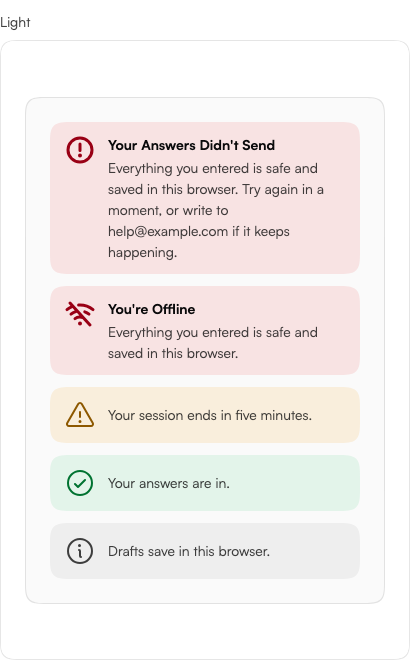
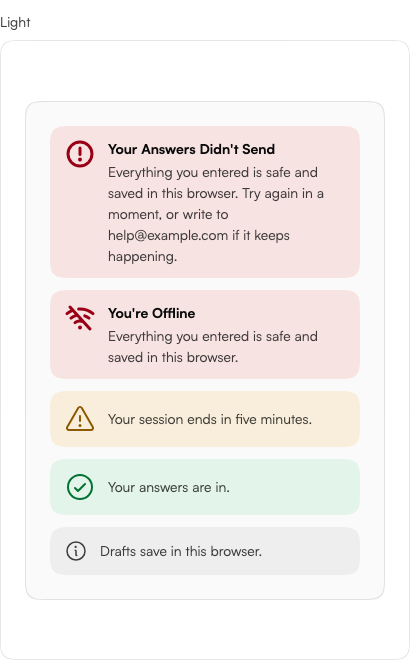
VI-799 fix: keep the plain note at 24px; align the info alert only over a photo
Round 2 sized the neutral note's icon at 32px everywhere, which moved the
plain soft alert for every consumer (parity D4a: note 24px to 32px). The
unbound note is back at --alert-icon-size-note (1.5rem). Inside the glass
switch the note now draws at --alert-icon-size, so over a photo every
tone's text still starts in one column, as the operator approved in v7.
The parity report is regenerated gated (D4a clean in light and dark), the
plain looks are re-shot, and Dark + Photo is re-shot on the night photo.

diff --git a/components/ui/alert/__tests__/alert-soft.test.tsx b/components/ui/alert/__tests__/alert-soft.test.tsx
@@ -39,9 +39,9 @@ const SOFT: Record<
   destructive: { fill: styles.softDestructive, Icon: WarningOctagon, size: 32, role: "alert" },
   warning: { fill: styles.softWarning, Icon: Warning, size: 32, role: "status" },
   success: { fill: styles.softSuccess, Icon: CheckCircle, size: 32, role: "status" },
-  default: { fill: styles.softNote, Icon: Info, size: 32, role: "status" },
+  default: { fill: styles.softNote, Icon: Info, size: 24, role: "status" },
   // `info` has no soft surface yet, so it falls back to the neutral note.
-  info: { fill: styles.softNote, Icon: Info, size: 32, role: "status" },
+  info: { fill: styles.softNote, Icon: Info, size: 24, role: "status" },
 }
 
 const VARIANTS = Object.keys(SOFT) as Variant[]
@@ -129,7 +129,7 @@ describe("Alert appearance=\"soft\" (VI-698)", () => {
 
     it("sizes a custom note icon at the note size", () => {
       softAlert("default", { icon: <Lightning /> })
-      expect(iconOf(screen.getByTestId("alert"))).toHaveAttribute("width", "32")
+      expect(iconOf(screen.getByTestId("alert"))).toHaveAttribute("width", "24")
     })
   })
 
@@ -217,7 +217,15 @@ describe("Alert appearance=\"soft\" (VI-698)", () => {
 
     it("sizes the icon from the component tokens", () => {
       expect(rule(".icon > svg")).toContain("width: var(--alert-icon-size, 2rem)")
-      expect(rule(".softNote .icon > svg")).toContain("width: var(--alert-icon-size-note, var(--alert-icon-size, 2rem))")
+      expect(rule(".softNote .icon > svg")).toContain("width: var(--alert-icon-size-note, 1.5rem)")
+    })
+
+    // VI-799: only over a photo does the note take the other tones' size, so the text columns line up.
+    it("sizes the note like every other tone inside the glass switch, and only there", () => {
+      expect(rule(':global([data-glass="on"]) .softNote .icon > svg')).toContain("width: var(--alert-icon-size, 2rem)")
+      expect(rule(':global([data-glass="on"]) .softNote .content')).toContain("min-height: var(--alert-icon-size, 2rem)")
+      expect(rule(':global([data-glass="off"]) .softNote .icon > svg')).toContain("width: var(--alert-icon-size-note, 1.5rem)")
+      expect(rule(':global([data-glass="off"]) .softNote .content')).toContain("min-height: var(--alert-icon-size-note, 1.5rem)")
     })
 
     it("keeps the body in secondary ink, not the tone's colour", () => {

diff --git a/packages/docs/e2e/alert-soft-glass.spec.ts b/packages/docs/e2e/alert-soft-glass.spec.ts
@@ -3,8 +3,8 @@ import { test, expect, type Frame, type Page } from "@playwright/test";
 // VI-799: the soft Alert replaces the kit's Notice. In the plain looks it keeps
 // its danger tone and no glass; over a photo every tone draws in the glass ink,
 // on the glass fill and blur, with a full hairline outline and never a stripe.
-// The alerts sit on a form panel built from the glass recipe, and every tone's
-// text starts in the same column (the info note included).
+// The alerts sit on a form panel built from the glass recipe, and over a photo
+// every tone's text starts in the same column (the info note included).
 // The stock theme CI has; LOOKS_THEME=honcho-backstage and LOOKS_PHOTO=/a-real-photo.webp
 // draw the kit's looks over a real photo locally.
 const THEME = process.env.LOOKS_THEME ?? "neutral";
@@ -82,9 +82,14 @@ for (const width of [1440, 390]) {
           await expect(frame.locator('[data-slot="look-panel"]')).toHaveAttribute("data-mode", look.mode ?? docsMode);
           const alerts = await probe(frame);
           expect(alerts).toHaveLength(5);
-          // Every tone, the info note included, draws one icon size and starts its text in one column.
-          expect(new Set(alerts.map((a) => a.iconWidth)).size).toBe(1);
-          expect(new Set(alerts.map((a) => a.textLeft)).size).toBe(1);
+          // Over a photo every tone, the info note included, draws one icon size and starts its
+          // text in one column. The plain looks keep the note's smaller 24px icon.
+          if (look.photo) {
+            expect(new Set(alerts.map((a) => a.iconWidth)).size).toBe(1);
+            expect(new Set(alerts.map((a) => a.textLeft)).size).toBe(1);
+          } else {
+            expect(alerts.at(-1)!.iconWidth).toBe(24);
+          }
           // The alerts sit on the glass recipe's form panel: glass over a photo, a solid card elsewhere.
           const panelGlass = await frame
             .locator('[data-slot="alert-form-panel"] > span[aria-hidden]')

diff --git a/components/ui/alert/alert.module.css b/components/ui/alert/alert.module.css
@@ -143,9 +143,7 @@
 }
 
 /* The icon: outline, unchipped, in the tone's colour. The SVG's own width is
-   the token's fallback; this governs the rendered size so a theme can bind it.
-   The neutral note takes the same size by default (VI-799), so its text column
-   lines up with every other tone's; a theme can still bind a smaller note. */
+   the token's fallback; this governs the rendered size so a theme can bind it. */
 .icon {
   flex: none;
   display: inline-flex;
@@ -157,8 +155,8 @@
 }
 
 .softNote .icon > svg {
-  width: var(--alert-icon-size-note, var(--alert-icon-size, 2rem));
-  height: var(--alert-icon-size-note, var(--alert-icon-size, 2rem));
+  width: var(--alert-icon-size-note, 1.5rem);
+  height: var(--alert-icon-size-note, 1.5rem);
 }
 
 .softDestructive .icon {
@@ -190,7 +188,29 @@
 }
 
 .softNote .content {
-  min-height: var(--alert-icon-size-note, var(--alert-icon-size, 2rem));
+  min-height: var(--alert-icon-size-note, 1.5rem);
+}
+
+/* Over a photo (VI-799) the note draws its icon at the other tones' size, so
+   every tone's text starts in one column on the glass. A size can't ride a
+   --glass-on-* fallback, so this keys off the switch itself; the off rule
+   after it restores the note for a data-glass="off" subtree inside it. */
+:global([data-glass="on"]) .softNote .icon > svg {
+  width: var(--alert-icon-size, 2rem);
+  height: var(--alert-icon-size, 2rem);
+}
+
+:global([data-glass="on"]) .softNote .content {
+  min-height: var(--alert-icon-size, 2rem);
+}
+
+:global([data-glass="off"]) .softNote .icon > svg {
+  width: var(--alert-icon-size-note, 1.5rem);
+  height: var(--alert-icon-size-note, 1.5rem);
+}
+
+:global([data-glass="off"]) .softNote .content {
+  min-height: var(--alert-icon-size-note, 1.5rem);
 }
 
 /* Trim the outer margins of whatever sits at the content's edges. MDX wraps

diff --git a/packages/theme-engine/src/component-tokens.ts b/packages/theme-engine/src/component-tokens.ts
@@ -1343,7 +1343,7 @@ const alertFamily: ComponentTokenFamily = {
     "Alert's soft appearance: the inline alert under a control or in a dialog — icon size, inset, gap, rounding and type.",
   tokens: [
     { key: "icon-size", property: "width / height / min-height", description: "Soft icon size for the destructive, warning and success tones; the content is at least this tall.", consumers: at(ALERT, "2rem") },
-    { key: "icon-size-note", property: "width / height / min-height", description: "Soft icon size for the neutral note (`default` and `info`). Unbound, it matches `icon-size`, so every tone's text lines up.", consumers: at(ALERT, "var(--alert-icon-size, 2rem)") },
+    { key: "icon-size-note", property: "width / height / min-height", description: "Soft icon size for the neutral note (`default` and `info`).", consumers: at(ALERT, "1.5rem") },
     { key: "soft-padding", property: "padding", description: "Soft alert inset.", consumers: at(ALERT, "var(--spacing-3, 0.75rem) calc(var(--spacing-3, 0.75rem) + var(--spacing-1, 0.25rem) / 2)") },
     { key: "gap", property: "gap", description: "Gap between the soft icon and its text.", consumers: at(ALERT, "var(--spacing-3, 0.75rem)") },
     { key: "radius", property: "border-radius", description: "Soft alert corner rounding.", consumers: at(ALERT, "var(--radius-lg, 0.5rem)") },

diff --git a/components/ui/alert/alert.tsx b/components/ui/alert/alert.tsx
@@ -64,10 +64,9 @@ const SOFT_ICON: Record<AlertVariant, React.ElementType<IconProps>> = {
 /** The soft icon size for every tone but the neutral note. Matches the
  *  `--alert-icon-size` fallback; the CSS token governs the rendered size. */
 export const ALERT_ICON_SIZE = 32
-/** The neutral note's icon size: the same as every other tone by default
- *  (VI-799), so the text columns line up. Matches the `--alert-icon-size-note`
- *  fallback, which falls back to `--alert-icon-size`. */
-export const ALERT_ICON_SIZE_NOTE = ALERT_ICON_SIZE
+/** The neutral note is usually one line, where 32px reads heavy. Matches the
+ *  `--alert-icon-size-note` fallback. */
+export const ALERT_ICON_SIZE_NOTE = 24
 
 export interface AlertProps
   extends React.HTMLAttributes<HTMLDivElement>,

diff --git a/packages/docs/lib/props-data.ts b/packages/docs/lib/props-data.ts
@@ -25,7 +25,7 @@ export const propsData: Record<string, PropDef[]> = {
       name: 'icon',
       type: 'React.ReactElement<IconProps>',
       description:
-        "soft only. Replaces the tone's default icon; drawn at --alert-icon-size (32px, the default note too) and hidden from assistive tech.",
+        "soft only. Replaces the tone's default icon; drawn at --alert-icon-size (24px for the default note) and hidden from assistive tech.",
     },
     {
       name: 'role',

diff --git a/docs/audits/VI-799/parity-report.md b/docs/audits/VI-799/parity-report.md
@@ -1,7 +1,5 @@
 # VI-625 — component-token parity proof
 
-> **VI-799 round 2, expected and ruled:** the only D4a deltas are the soft neutral note's icon (24px to 32px), its box height and its text column (8px narrower). The operator's v7 review asked for the info alert to take the same icon size and text column as every other tone; that is this change. Every edged Alert probe and every other soft tone matches `origin/main` in light and dark. The script exits 1 on any delta and has no allow path, so this report is committed un-gated (Builder Default D4).
-
 Base ref: `origin/main` · modules: 57 · probes rendered in Chromium at 2x.
 
 `unbound__{mode}.png` and `bound__{mode}.png` are the two-theme side-by-side:
@@ -10,10 +8,7 @@ whole contract.
 
 ## D4a — unbound is identical to origin/main (light)
 
-- alert-soft-note · height: 24px → 32px
-- alert-soft-note-icon · width: 24px → 32px
-- alert-soft-note-icon · height: 24px → 32px
-- alert-soft-note-description · width: 924px → 916px
+No computed-style delta on any probe.
 
 ## D4b — the fully-bound theme moves every surface (light)
 
@@ -25,10 +20,7 @@ whole contract.
 
 ## D4a — unbound is identical to origin/main (dark)
 
-- alert-soft-note · height: 24px → 32px
-- alert-soft-note-icon · width: 24px → 32px
-- alert-soft-note-icon · height: 24px → 32px
-- alert-soft-note-description · width: 924px → 916px
+No computed-style delta on any probe.
 
 ## D4b — the fully-bound theme moves every surface (dark)
 

diff --git a/.changeset/vi-799-alert-soft-glass.md b/.changeset/vi-799-alert-soft-glass.md
@@ -1,6 +1,5 @@
 ---
 "@loworbitstudio/visor": minor
-"@loworbitstudio/visor-theme-engine": patch
 ---
 
-Alert: the soft appearance draws on glass inside the glass layer's `data-glass="on"` switch — the glass fill and blur, a full hairline outline and every tone in the glass ink instead of its tone colour. Off the switch it renders as before, except that the neutral note (`default` and `info`) now draws its icon at the same 32px as every other tone, so every tone's text starts in one column. `--alert-icon-size-note` still binds a smaller note; unbound it now falls back to `--alert-icon-size`.
+Alert: the soft appearance draws on glass inside the glass layer's `data-glass="on"` switch — the glass fill and blur, a full hairline outline and every tone in the glass ink instead of its tone colour. There the neutral note (`default` and `info`) also draws its icon at `--alert-icon-size`, so every tone's text starts in one column. Off the switch it renders exactly as before.
